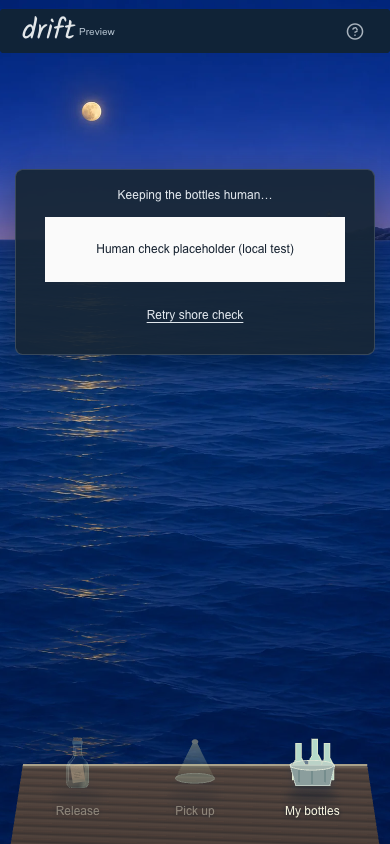
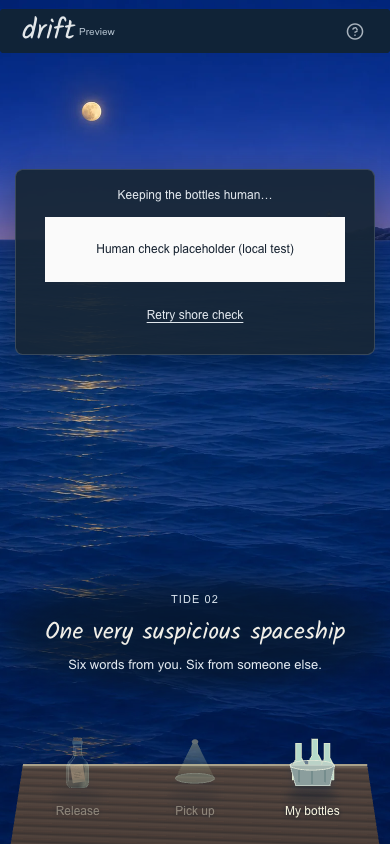
Show the shared daily tide and six-word premise on the shore

Changed region(s): [[0.0308, 0.6777, 0.9538, 0.8318]]

diff --git a/apps/web/src/Shore.tsx b/apps/web/src/Shore.tsx
@@ -98,6 +98,7 @@ export function Shore({
   empty = false,
   headingRef,
   restingMessage,
+  day,
 }: {
   mode: 'home' | 'catch';
   prompt?: Prompt;
@@ -114,7 +115,9 @@ export function Shore({
   empty?: boolean;
   headingRef: RefObject<HTMLHeadingElement | null>;
   restingMessage?: string;
+  day?: number;
 }) {
+  const tide = day === undefined ? undefined : day - FIRST_TIDE_DAY + 1;
   const grip = useRef<HTMLButtonElement>(null);
   const emptyHeading = useRef<HTMLHeadingElement>(null);
   useEffect(() => {
@@ -252,9 +255,20 @@ export function Shore({
       <h1 ref={headingRef} tabIndex={-1} className="sr-only">
         {mode === 'catch' ? 'Find a bottle on the shore' : 'Drift, a few words between strangers'}
       </h1>
-      {mode === 'home' && !empty && restingMessage && (
-        <div className="shore-whisper">
-          <p>{restingMessage}</p>
+      {mode === 'home' && !empty && (prompt || restingMessage) && (
+        <div className={`shore-whisper${prompt ? ' daily-tide' : ''}`}>
+          {prompt && (
+            <>
+              {tide !== undefined && tide > 0 && (
+                <time dateTime={new Date(day! * 86400000).toISOString().slice(0, 10)}>
+                  Tide {String(tide).padStart(2, '0')}
+                </time>
+              )}
+              <h2>{prompt.title}</h2>
+              <p>Six words from you. Six from someone else.</p>
+            </>
+          )}
+          {restingMessage && <p className="tide-status">{restingMessage}</p>}
         </div>
       )}
       {empty && (

diff --git a/apps/web/src/main.tsx b/apps/web/src/main.tsx
@@ -366,6 +366,9 @@ function App() {
     const t = setInterval(update, 1000);
     return () => clearInterval(t);
   }, [s.clockOffsetMs]);
+  useEffect(() => {
+    if (s.connected && s.today && s.today.day !== nowDay) void game.refresh().catch(() => {});
+  }, [s.connected, s.today?.day, nowDay]);
   // Restore before paint so switching between independent drafts never exposes an empty input.
   useLayoutEffect(() => {
     setDraft({ key: currentDraftKey, text: currentDraftKey ? saved(currentDraftKey) : '' });
@@ -594,7 +597,7 @@ function App() {
         Skip to the game
       </a>
       <div
-        className={`app-shell sea-world ${view === 'today' || (view === 'play' && active?.stage === 'catch') ? 'shore-shell' : ''}${ritual ? ' has-bottle-ritual' : ''}`}
+        className={`app-shell sea-world ${view === 'today' || (view === 'play' && active?.stage === 'catch') ? 'shore-shell' : ''}${ritual ? ' has-bottle-ritual' : ''}${view === 'today' && needsShoreCheck ? ' has-shore-check' : ''}`}
       >
         <Ocean paused={seaPaused} />
         <header className="site-header" inert={!!ritual}>
@@ -687,6 +690,7 @@ function App() {
           {view === 'today' && (
             <Shore
               mode="home"
+              day={s.today?.day}
               restingMessage={
                 !writeRound && !catchRound && dailyRounds >= 3
                   ? `Today’s limit reached. Try again at ${reset}.`

diff --git a/apps/web/src/natural.css b/apps/web/src/natural.css
@@ -835,6 +835,44 @@ input:focus-visible {
   font: 400 12px/1.6 var(--letter-ui);
   text-shadow: none;
 }
+
+.sea-world .daily-tide {
+  left: 50%;
+  right: auto;
+  width: min(480px, calc(100% - 40px));
+  transform: translateX(-50%);
+  isolation: isolate;
+}
+.sea-world .daily-tide::before {
+  content: '';
+  position: absolute;
+  z-index: -1;
+  inset: -16px -28px;
+  background: radial-gradient(ellipse, #06172ee8 0%, #06172ebd 58%, transparent 76%);
+  filter: blur(12px);
+  pointer-events: none;
+}
+.sea-world .daily-tide time {
+  display: block;
+  margin-bottom: 8px;
+  color: #d8e2ec;
+  font: 400 11px/1.5 var(--letter-ui);
+  letter-spacing: 0.1em;
+  text-transform: uppercase;
+}
+.sea-world .daily-tide h2 {
+  margin: 0;
+  color: #f0eee7;
+  font: 400 24px/1.4 var(--letter-hand);
+}
+.sea-world .daily-tide p {
+  margin: 6px 0 0;
+  color: #e0e7ef;
+  font: 400 13px/1.6 var(--letter-ui);
+}
+.sea-world .daily-tide .tide-status {
+  margin-top: 12px;
+}
 @media (max-width: 340px) {
   .sea-world .shore-gate {
     width: 100vw;
@@ -842,6 +880,12 @@ input:focus-visible {
   }
 }
 @media (max-height: 480px) {
+  .sea-world.has-shore-check .daily-tide {
+    visibility: hidden;
+  }
+  .sea-world .daily-tide > p:not(.tide-status) {
+    display: none;
+  }
   .sea-world .shore-gate--shore {
     top: 76px;
     max-height: calc(100svh - 88px);

diff --git a/README.md b/README.md
@@ -10,7 +10,7 @@
 
 The build uses React 19, TypeScript, Vite 8 and SpacetimeDB 2.13. The hosted independent-letter upgrade preserved the original database and records with defaulted appended columns and an owner backfill. See [migration evidence](docs/letter-migration.md). The current three-writer integration passes ten checks in Chrome and ten in WebKit: multiple endings, independent drafts, real ID cookies, reload recovery, private/public contribution captions and actual PNG download. These are isolated synthetic checks with model calls disabled.
 
-The full-screen sea uses the locally bundled MIT-licensed Noniv WebGPU FFT engine. The team-approved AI coast artwork provides the responsive fallback, and its transparent lighthouse/headland sits over the simulated water. The bottle is original SVG, the dock is CSS, and paper uses a real credited photograph. Pause and reduced motion remain supported. See [asset sources](docs/asset-sources.md). The note opens over the same sea. The current pickup ritual supports deliberate pointer shakes alongside tap/keyboard opening, with explicit opt-in phone motion, an off control and reduced-motion support. Browser sensor checks are emulated; physical phones remain unverified.
+The full-screen sea uses the locally bundled MIT-licensed Noniv WebGPU FFT engine. The team-approved AI coast artwork provides the responsive fallback, and its transparent lighthouse/headland sits over the simulated water. The bottle is original SVG, the dock is CSS, and paper uses a real credited photograph. Pause and reduced motion remain supported. See [asset sources](docs/asset-sources.md). The shore now shows the shared daily tide/theme and the six-word premise; the note opens over the same sea. The current pickup ritual supports deliberate pointer shakes alongside tap/keyboard opening, with explicit opt-in phone motion, an off control and reduced-motion support. Browser sensor checks are emulated; physical phones remain unverified.
 
 **Live checkpoint:** Cloudflare HTTPS and Maincloud are deployed. The contribution-caption release is `e0df0d3` ([served-file evidence](docs/evidence/contribution-release.json)); the shake refinement `4acb0a3` is also live ([release proof](docs/evidence/bottle-ritual-release.json)). A real hosted two-browser Claude flow and Turnstile negative checks passed before the independent-letter redesign. A new hosted multi-writer/model flow under the revised mechanics remains pending: its three fresh browser profiles reached manual Cloudflare checkboxes and stopped before any story/model action. See [human-check entry](docs/shore-check-entry.md); local tests do not establish that hosted gate. Figma Make/Slides and Mana Bottle Kitchen have actual workflow artifacts: [workflow checkpoint](docs/workflow-checkpoint.md). Actual phones, attendee outcomes and final sponsor eligibility remain unverified. The team owns submission writing.
 

diff --git a/docs/daily-shore.md b/docs/daily-shore.md
@@ -1,0 +1,9 @@
+# A shared daily tide
+
+The shore now introduces the daily game before someone chooses an action: a tide edition, the shared theme, and “Six words from you. Six from someone else.” The approved sea and lighthouse remain the setting, with the same three bottle controls. A soft text scrim keeps the caption readable over bright water. Short landscape views omit the secondary premise line and hide the caption while the human-check panel needs that space.
+
+The theme and tide date come from the subscribed server `today` row. The tide number is the shared date's edition relative to the existing October 24 UTC anchor, independent of visits or usage. Its machine-readable date stays with the `time` element. The client requests a refresh when its synchronized day differs from the server projection, using the existing server day/time procedures; the regular refresh remains a fallback. This is a shared daily prompt, not a local-time personal puzzle. How to play already displays the next reset in the visitor's local time.
+
+The current six-check coast suite verifies the displayed theme against the server projection and checks caption/header/dock geometry across desktop, portrait, narrow phone and short landscape. It also retains real Chrome WebGPU movement/pause checks, responsive artwork fallback and WebKit/accessibility coverage. Five human-check layout checks and the current Chrome invitation flow pass. Browser viewports/failures are controlled tests, not physical-phone or overnight-user measurements. Build, script typechecks and CI are recorded with deployment evidence.
+
+This applies the winner review's daily-identity recommendation to the existing game. Return cues continue to come from actual completed pairs and private ownership; this change creates no story, model call or synthetic engagement signal. The shared theme also gives the optional Claude guidance visible context. Track relevance remains a product argument, not proof of eligibility or social impact.
